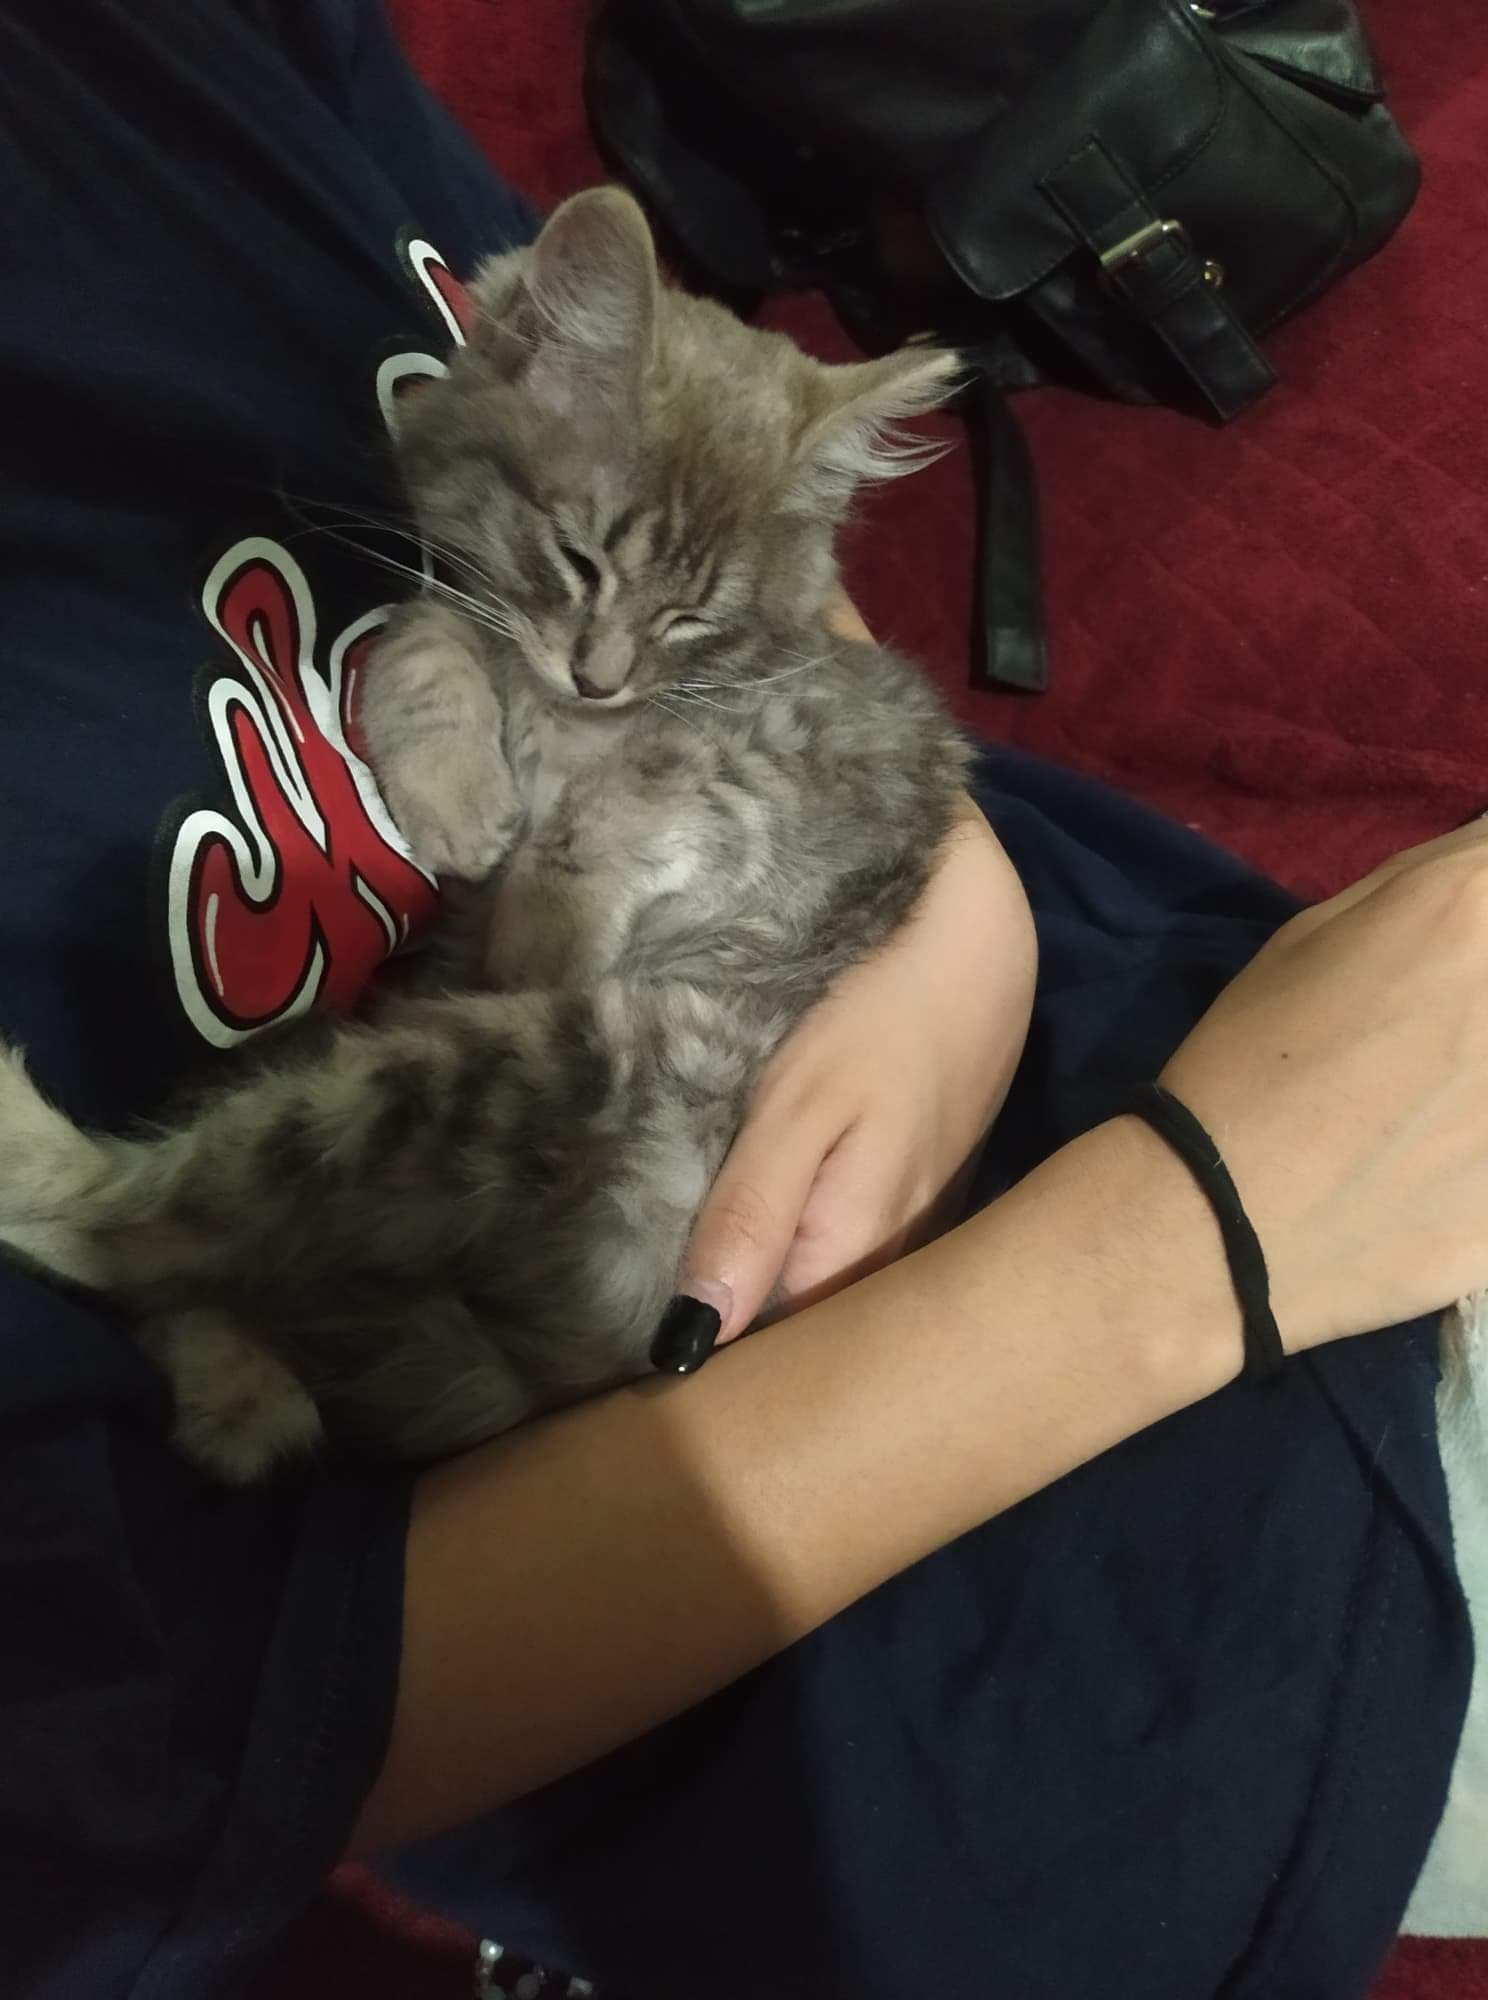
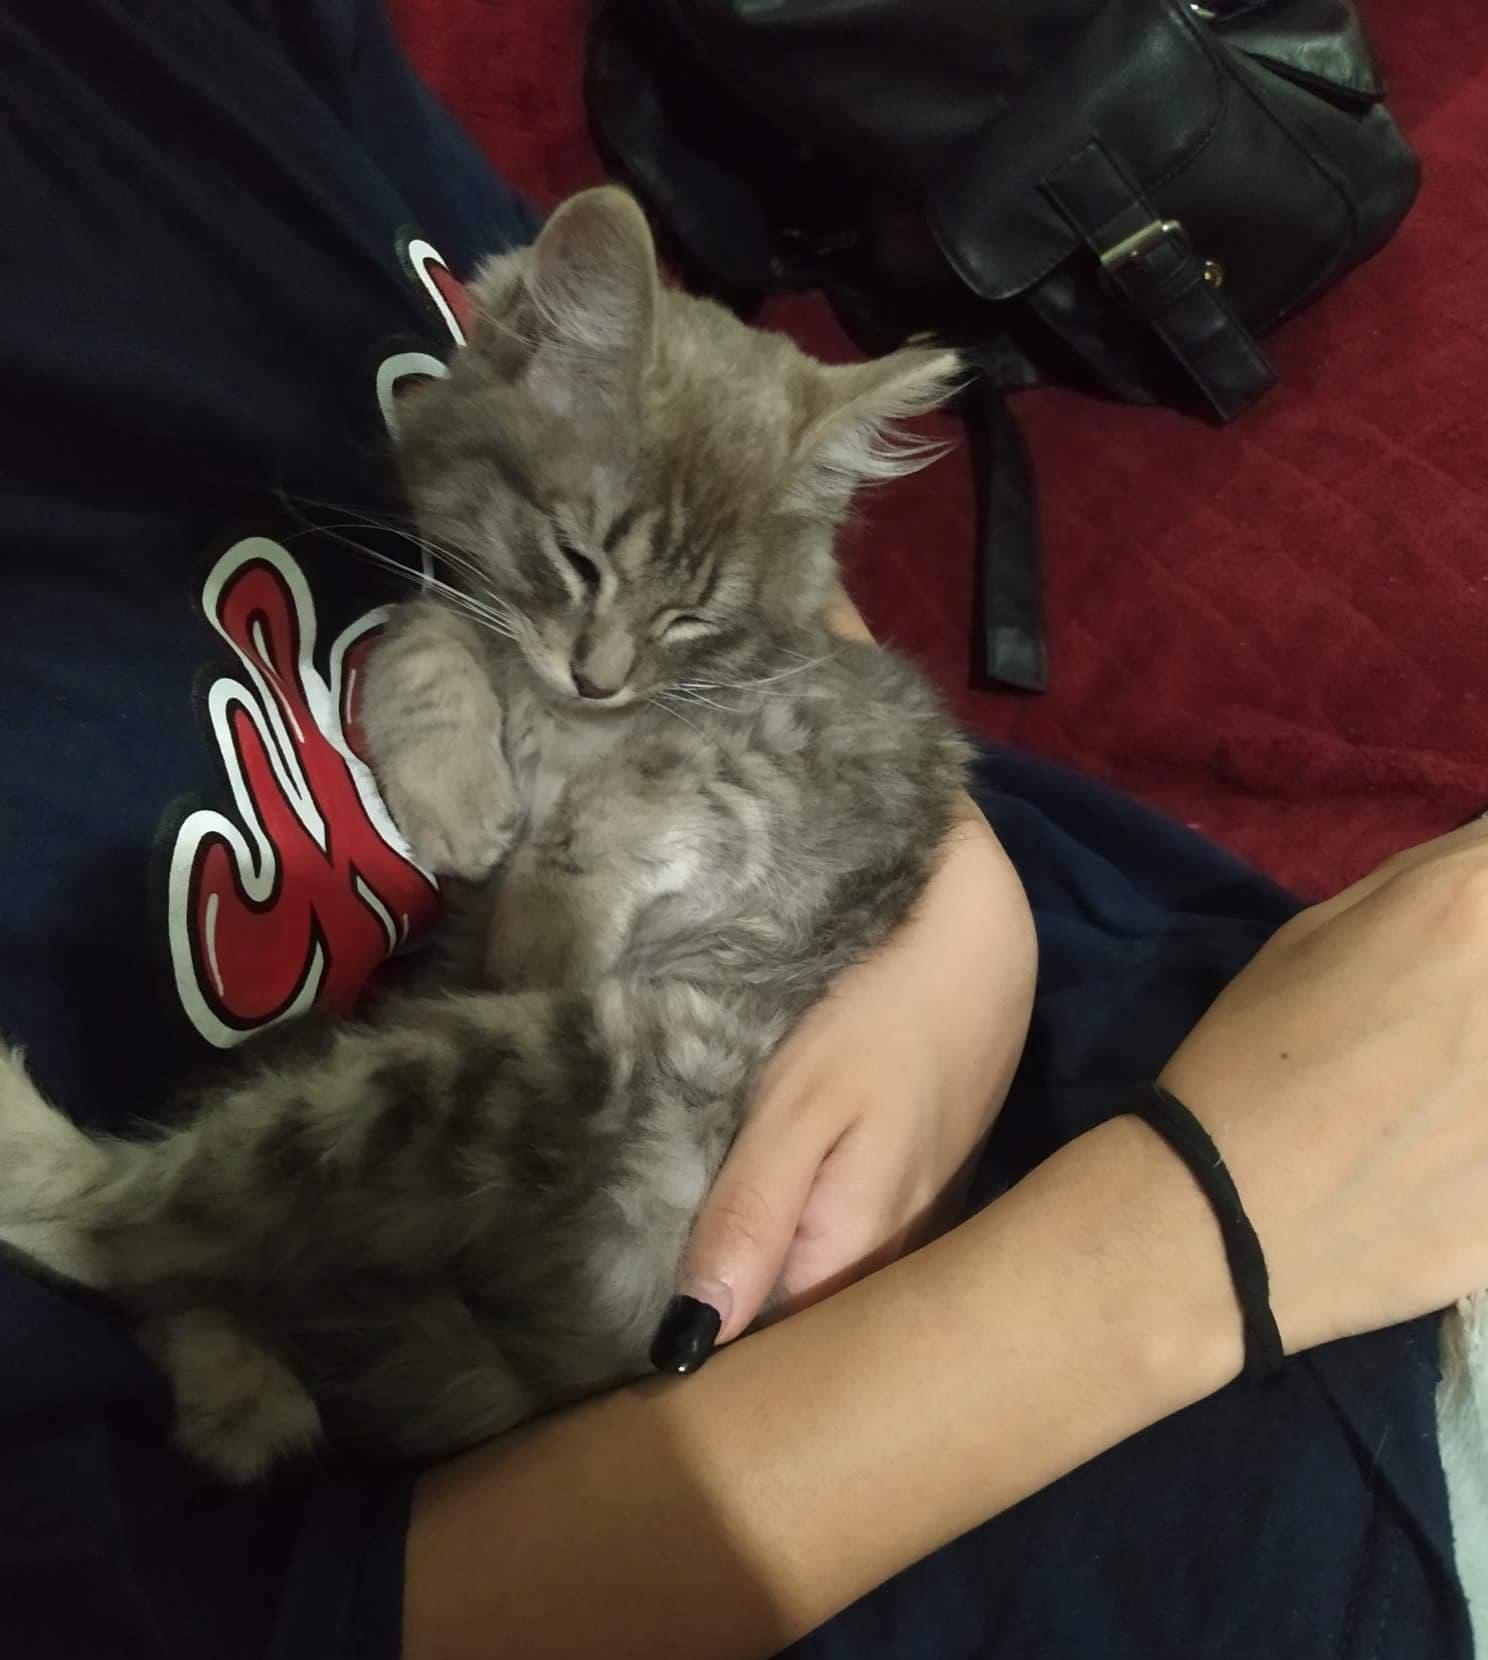
Arregle el tamaño de dos imagenes

diff --git a/index.html b/index.html
@@ -48,7 +48,7 @@
         </div>
         <div class="carousel-inner">
           <div class="carousel-item active">
-            <img src="https://clinicafelinavigo.com/wp-content/uploads/2020/03/adorable-1845789_1920.jpg" class="d-block w-100 img-carrusel" alt="...">
+            <img src="assets/img/gatito_de_leonel2.jpg" class="d-block w-100 img-carrusel" alt="...">
           </div>
           <div class="carousel-item">
             <img src="https://images.pexels.com/photos/7330190/pexels-photo-7330190.jpeg?auto=compress&cs=tinysrgb&dpr=2&h=650&w=940" class="d-block w-100 img-carrusel" alt="...">
